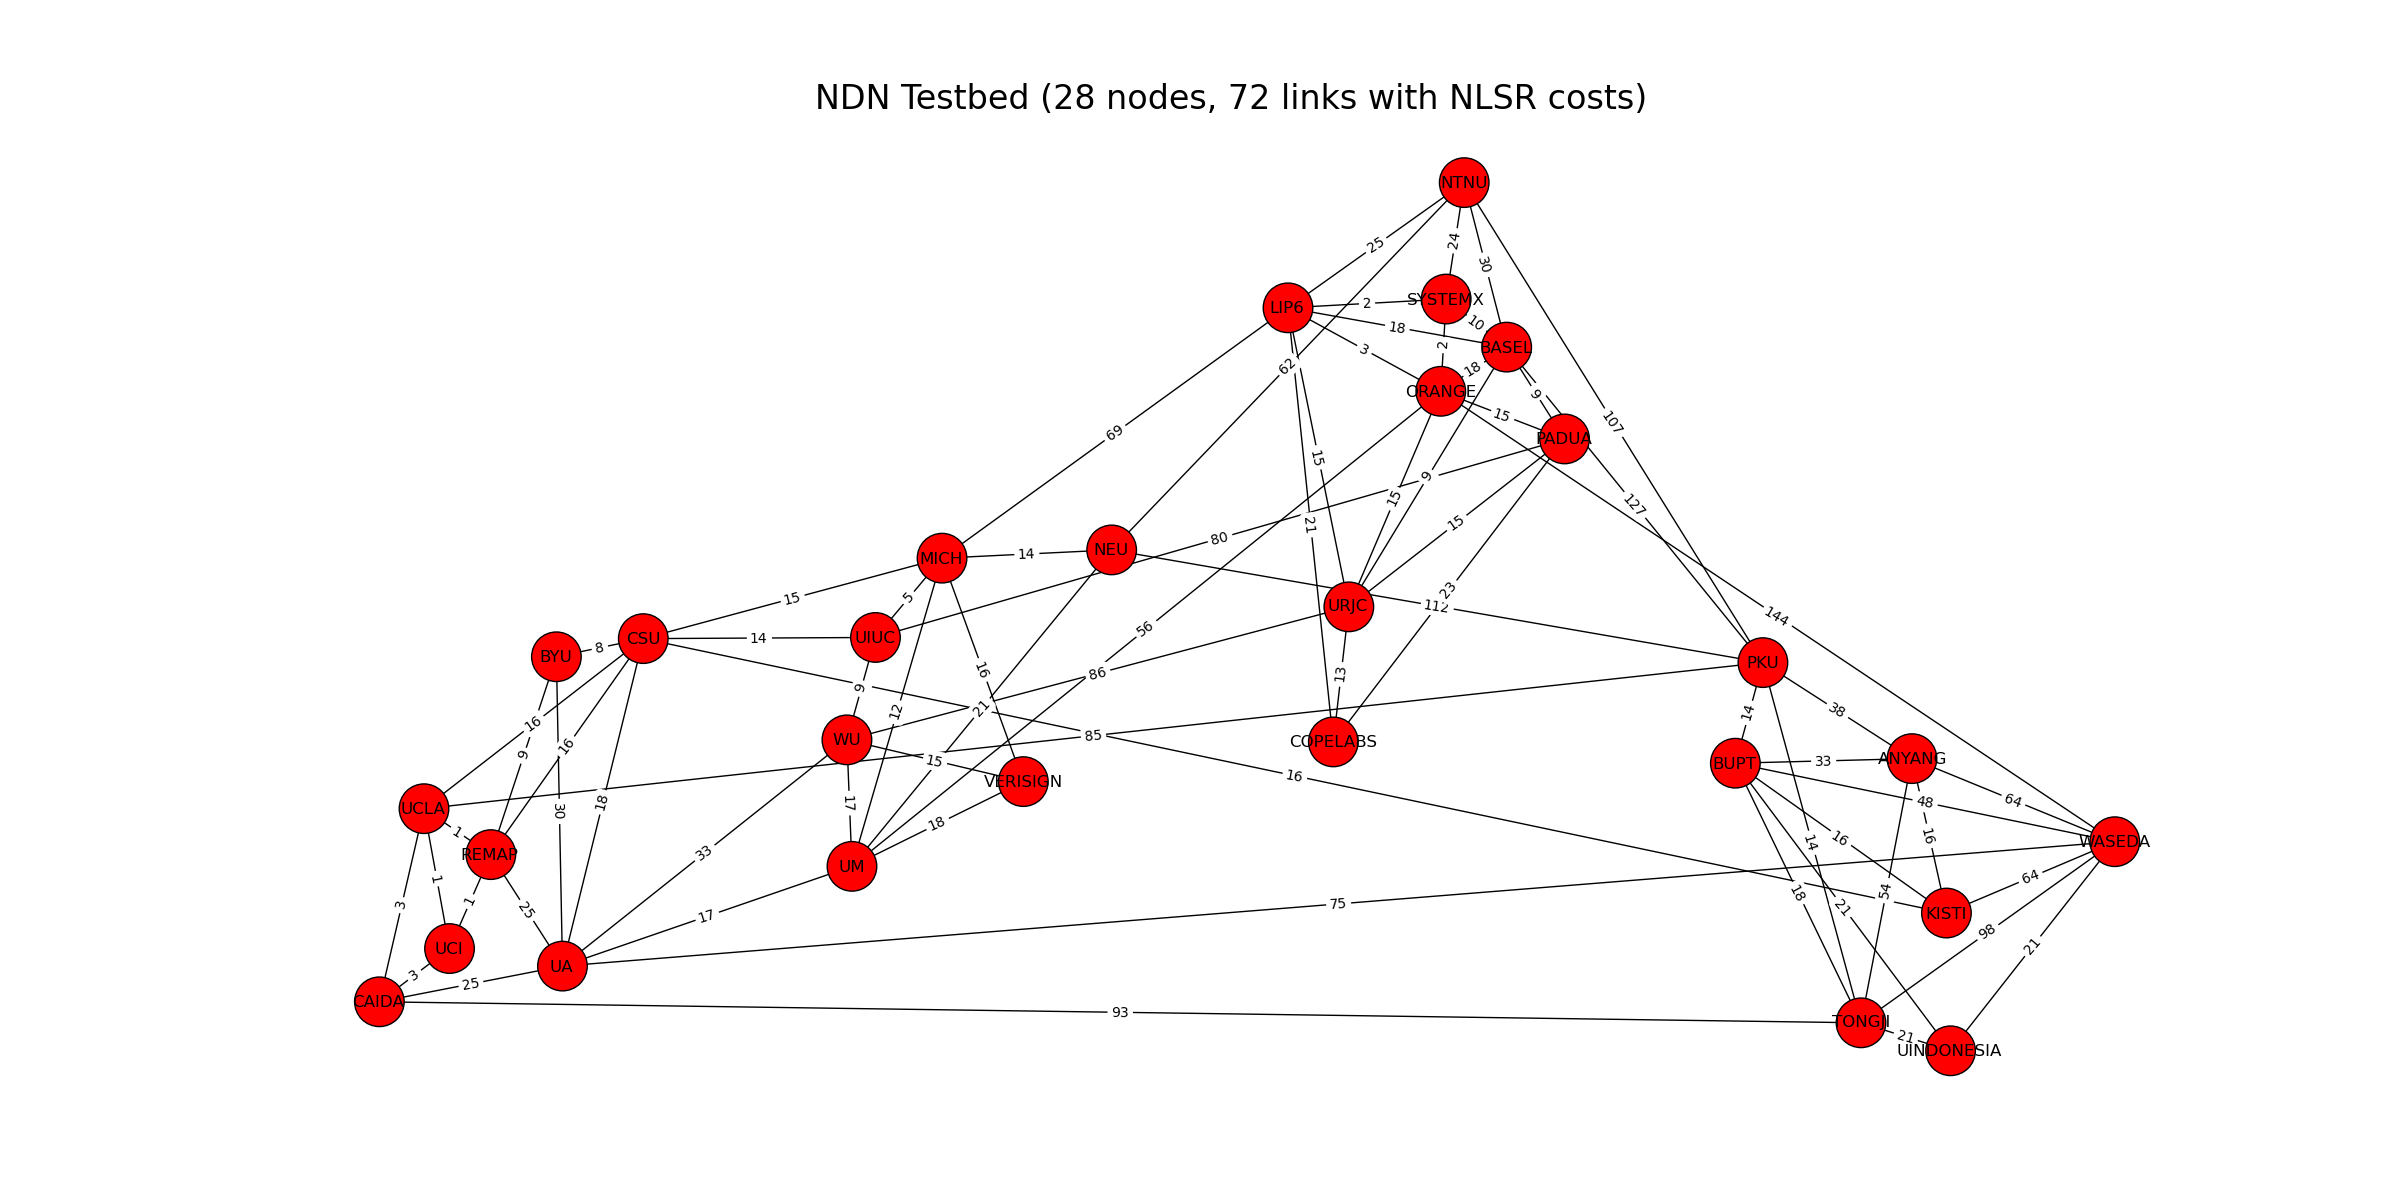
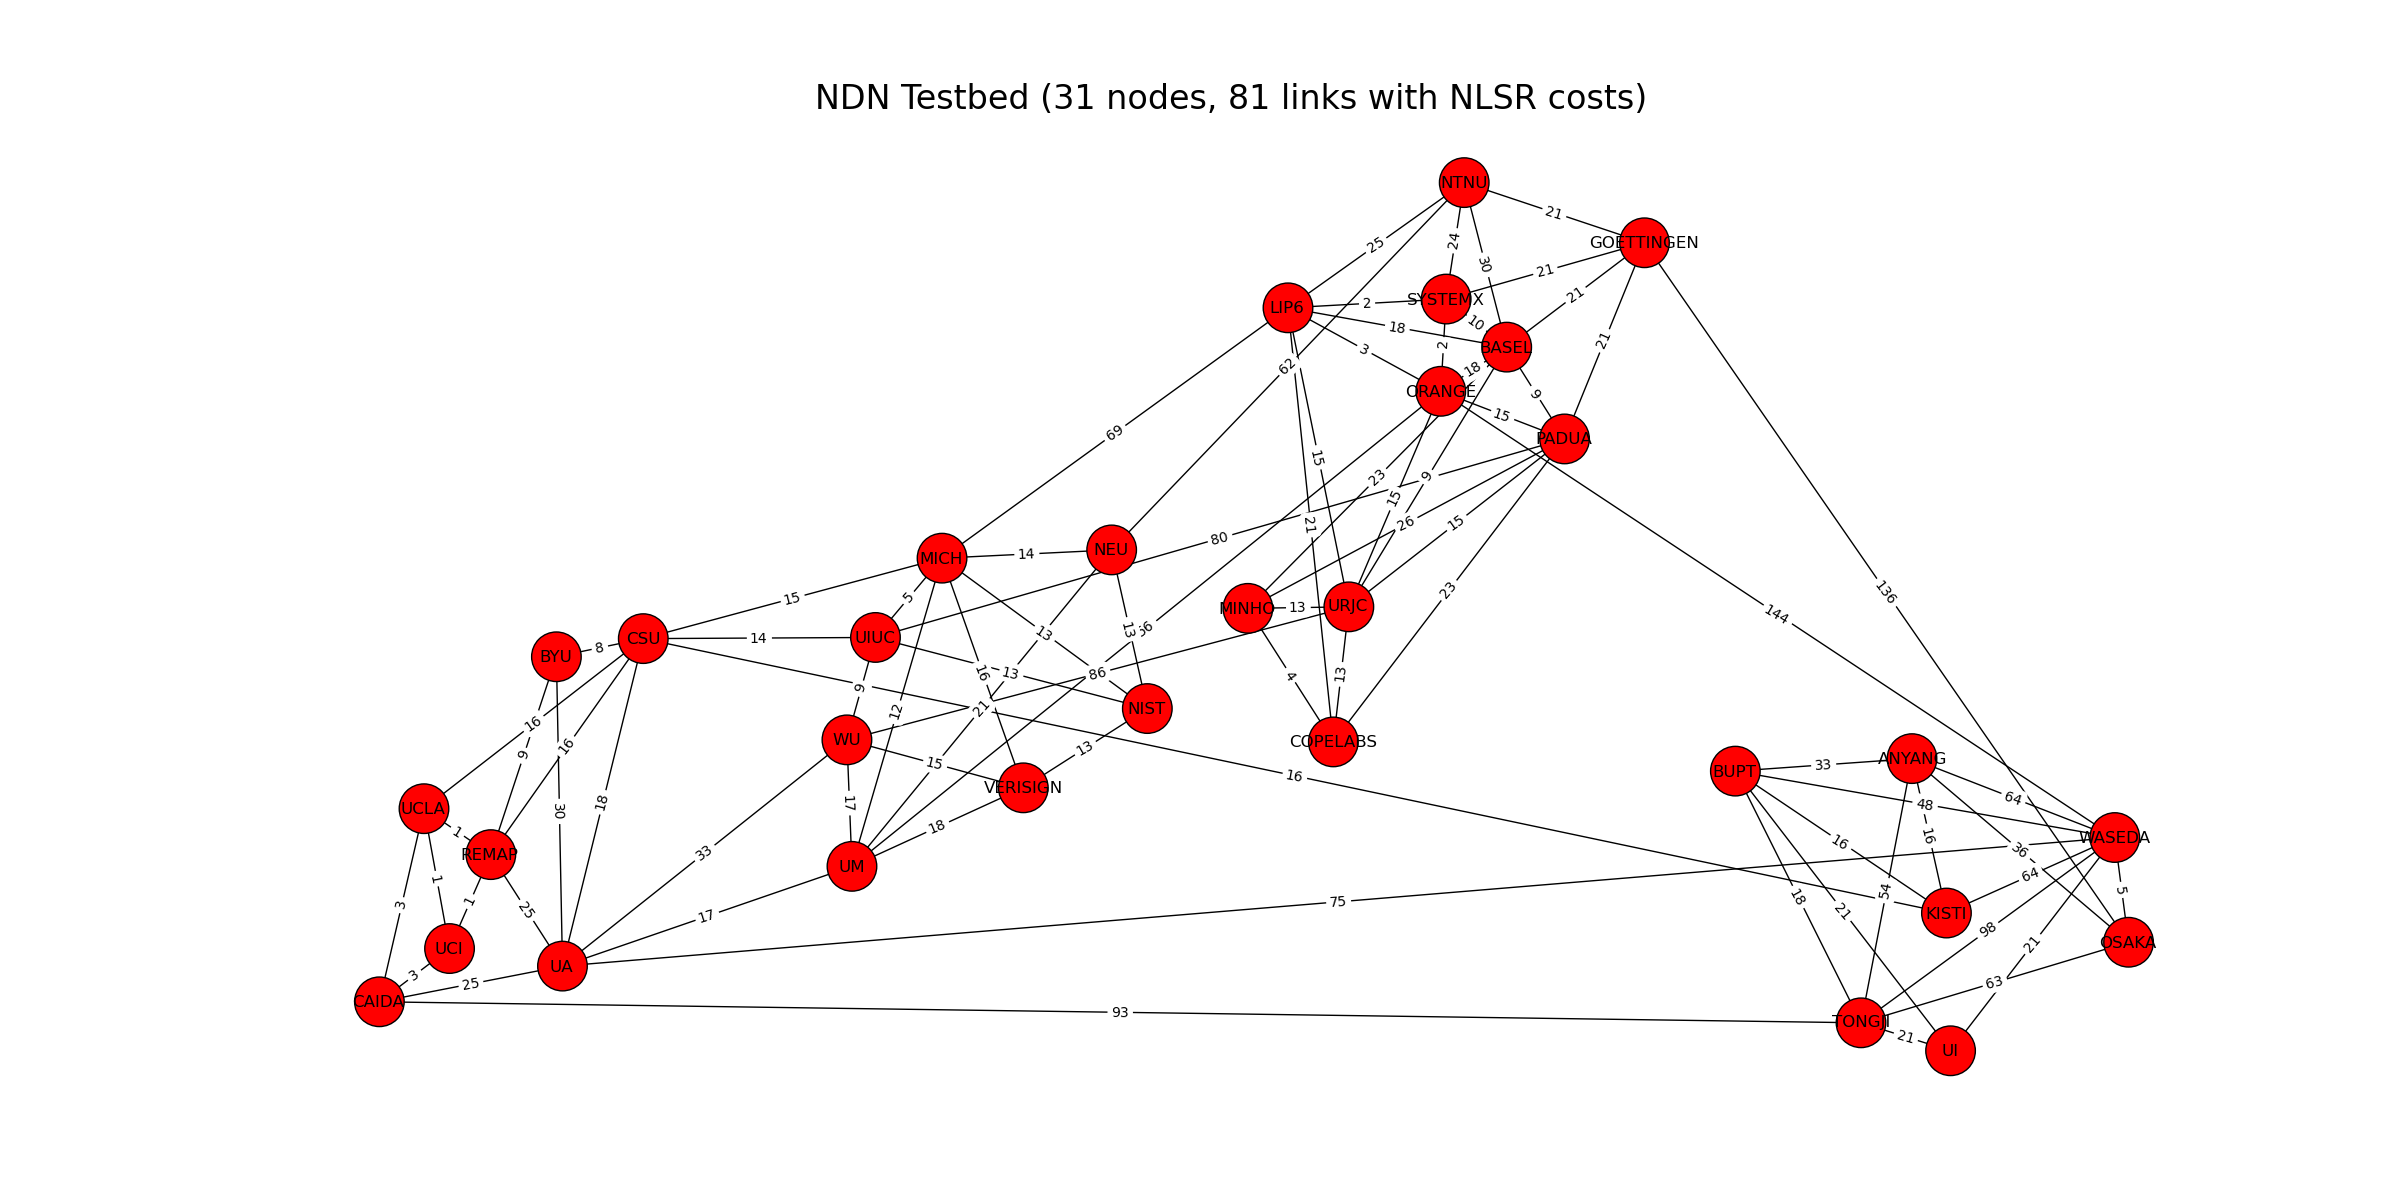
add latest nodes

diff --git a/ndn_prefix/tbs_ndnx.py b/ndn_prefix/tbs_ndnx.py
@@ -147,7 +147,7 @@ def is_testbed_prefix(prefix):
 	#ucla special cases
 	if(re.search("(ndn:/ndn/ucla.edu/%C1\.S\.*)", prefix) != None):
 		return False
-	if(re.search("(\.edu)|(\.org)|(\.com)|(\.cn)|(\.es)|(\.ch)|(\.fr)|(\.jp)|(\.no)|(\.kr)|(\.it)|(\.pt)|(\.uk)", prefix) != None):
+	if(re.search("(\.edu)|(\.org)|(\.com)|(\.cn)|(\.es)|(\.ch)|(\.de)|(\.fr)|(\.jp)|(\.gov)|(\.no)|(\.kr)|(\.it)|(\.pt)|(\.uk)", prefix) != None):
 		config.valid_prefix[prefix] = get_domain(prefix)
 		return True
 	return False 
@@ -163,7 +163,7 @@ def get_domain(prefix):
         #        print "get_domain(" + prefix + ") returning false: "
 	#	return "" #eval to false
 
-	if(re.search("ndn:/.*((edu)|(org)|(com)|(cn)|(es)|(ch)|(no)|(kr)|(it)|(jp)|(fr)|(pt)|(uk))", prefix) == None):
+	if(re.search("ndn:/.*((edu)|(org)|(com)|(cn)|(es)|(ch)|(no)|(de)|(kr)|(it)|(jp)|(gov)|(fr)|(pt)|(uk))", prefix) == None):
                 #print "get_domain(" + prefix + ") returning false: "
 		return "" #eval to false
 
@@ -174,7 +174,7 @@ def get_domain(prefix):
 	#removes ndn:/
 	#prime = re.search("ndn:/.*((\.edu)|(\.org)|(\.com)|(\.cn)|(\.uk))", prefix).group(0)[6:]
 	#prime = re.search("ndn:/.*((\.edu)|(\.org)|(\.com)|(\.cn)|(\.uk))", prefix).group(0)[5:]
-	prime = re.search("ndn:/.*((\edu)|(\org)|(\com)|(\cn)|(es)|(es)|(ch)|(no)|(kr)|(it)|(jp)|(fr)|(\pt)|(\uk)).*", prefix).group(0)[5:]
+	prime = re.search("ndn:/.*((\edu)|(\org)|(\com)|(\cn)|(es)|(es)|(ch)|(no)|(kr)|(it)|(de)|(jp)|(gov)|(fr)|(\pt)|(\uk)).*", prefix).group(0)[5:]
         #print "get_domain(" + prefix + ") prime: " + prime
 	#removes ndn/
 	dprime = re.search("ndn/.*", prime)
@@ -450,12 +450,8 @@ def gen_prefix_status_description():
 <br/>
 <font size="3" face="arial">Site Prefix Status: (Green: node has FIB entry for prefix; Red: no FIB entry; Yellow: no FIB entry but prefix is in node's domain) <br></font>
 <font size="3" face="arial">Clock Skew Status: (As compared to UCLA Node's time: Green: < 5 secs off; Yellow: 5 <  > 30 secs; Red: > 30 seconds off) <br><br></font>
-<font size="3" face="arial">Notes on current (March 3, 2015) status: New diagram of the Testbed topology below.<br></font>
-<font size="3" face="arial">Notes on current (September 1, 2015) status: nfd 0.3.4 is now running on all nodes. ndn-tools will follow shortly.<br></font>
-<font size="3" face="arial">Notes on current (September 1, 2015) status: ndnpingserver will return when ndn-tools gets installed.<br></font>
-<font size="3" face="arial">Notes on current (September 28, 2015) status: PKU is having hardware disk problems and will not be available for a while.<br></font>
-<font size="3" face="arial">Notes on current (October 27, 2015) status: nfd 0.4.0 beta2 is being pushed out to the Testbed.<br></font>
-<font size="3" face="arial">Notes on current (October 29, 2015) status: ndnmap data collectors are broken with new nfd 0.4.0 beta2 install. Should be back up later today.<br></font>
+<font size="3" face="arial">Notes on current (January 8, 2016) status: nfd 0.4.0 and NLSR 0.2.2 have been installed.<br></font>
+<font size="3" face="arial">Notes on current (February 11, 2016) status: The PKU node is not going to be repaired and has been removed from the Testbed.<br></font>
 
 <br>
 

diff --git a/ndn_prefix/NDN_nx.py b/ndn_prefix/NDN_nx.py
@@ -143,9 +143,21 @@ def NDN_graph():
         if node == "COPELABS":
           y = y - 0.5
           x = x + 4
-        if node == "UINDONESIA":
+        if node == "UI":
           y = y + 36.7
           x = x + 23
+        if node == "GOETTINGEN":
+          y = y -2
+          x = x + 8
+        if node == "OSAKA":
+          y = y - 1
+          x = x + 7
+        if node == "MINHO":
+          y = y - 0.5
+          x = x - 3
+        if node == "NIST":
+          x = x + 8
+          y = y - 0.25
 
         #if node == "PKU":
         #  x = x -3
